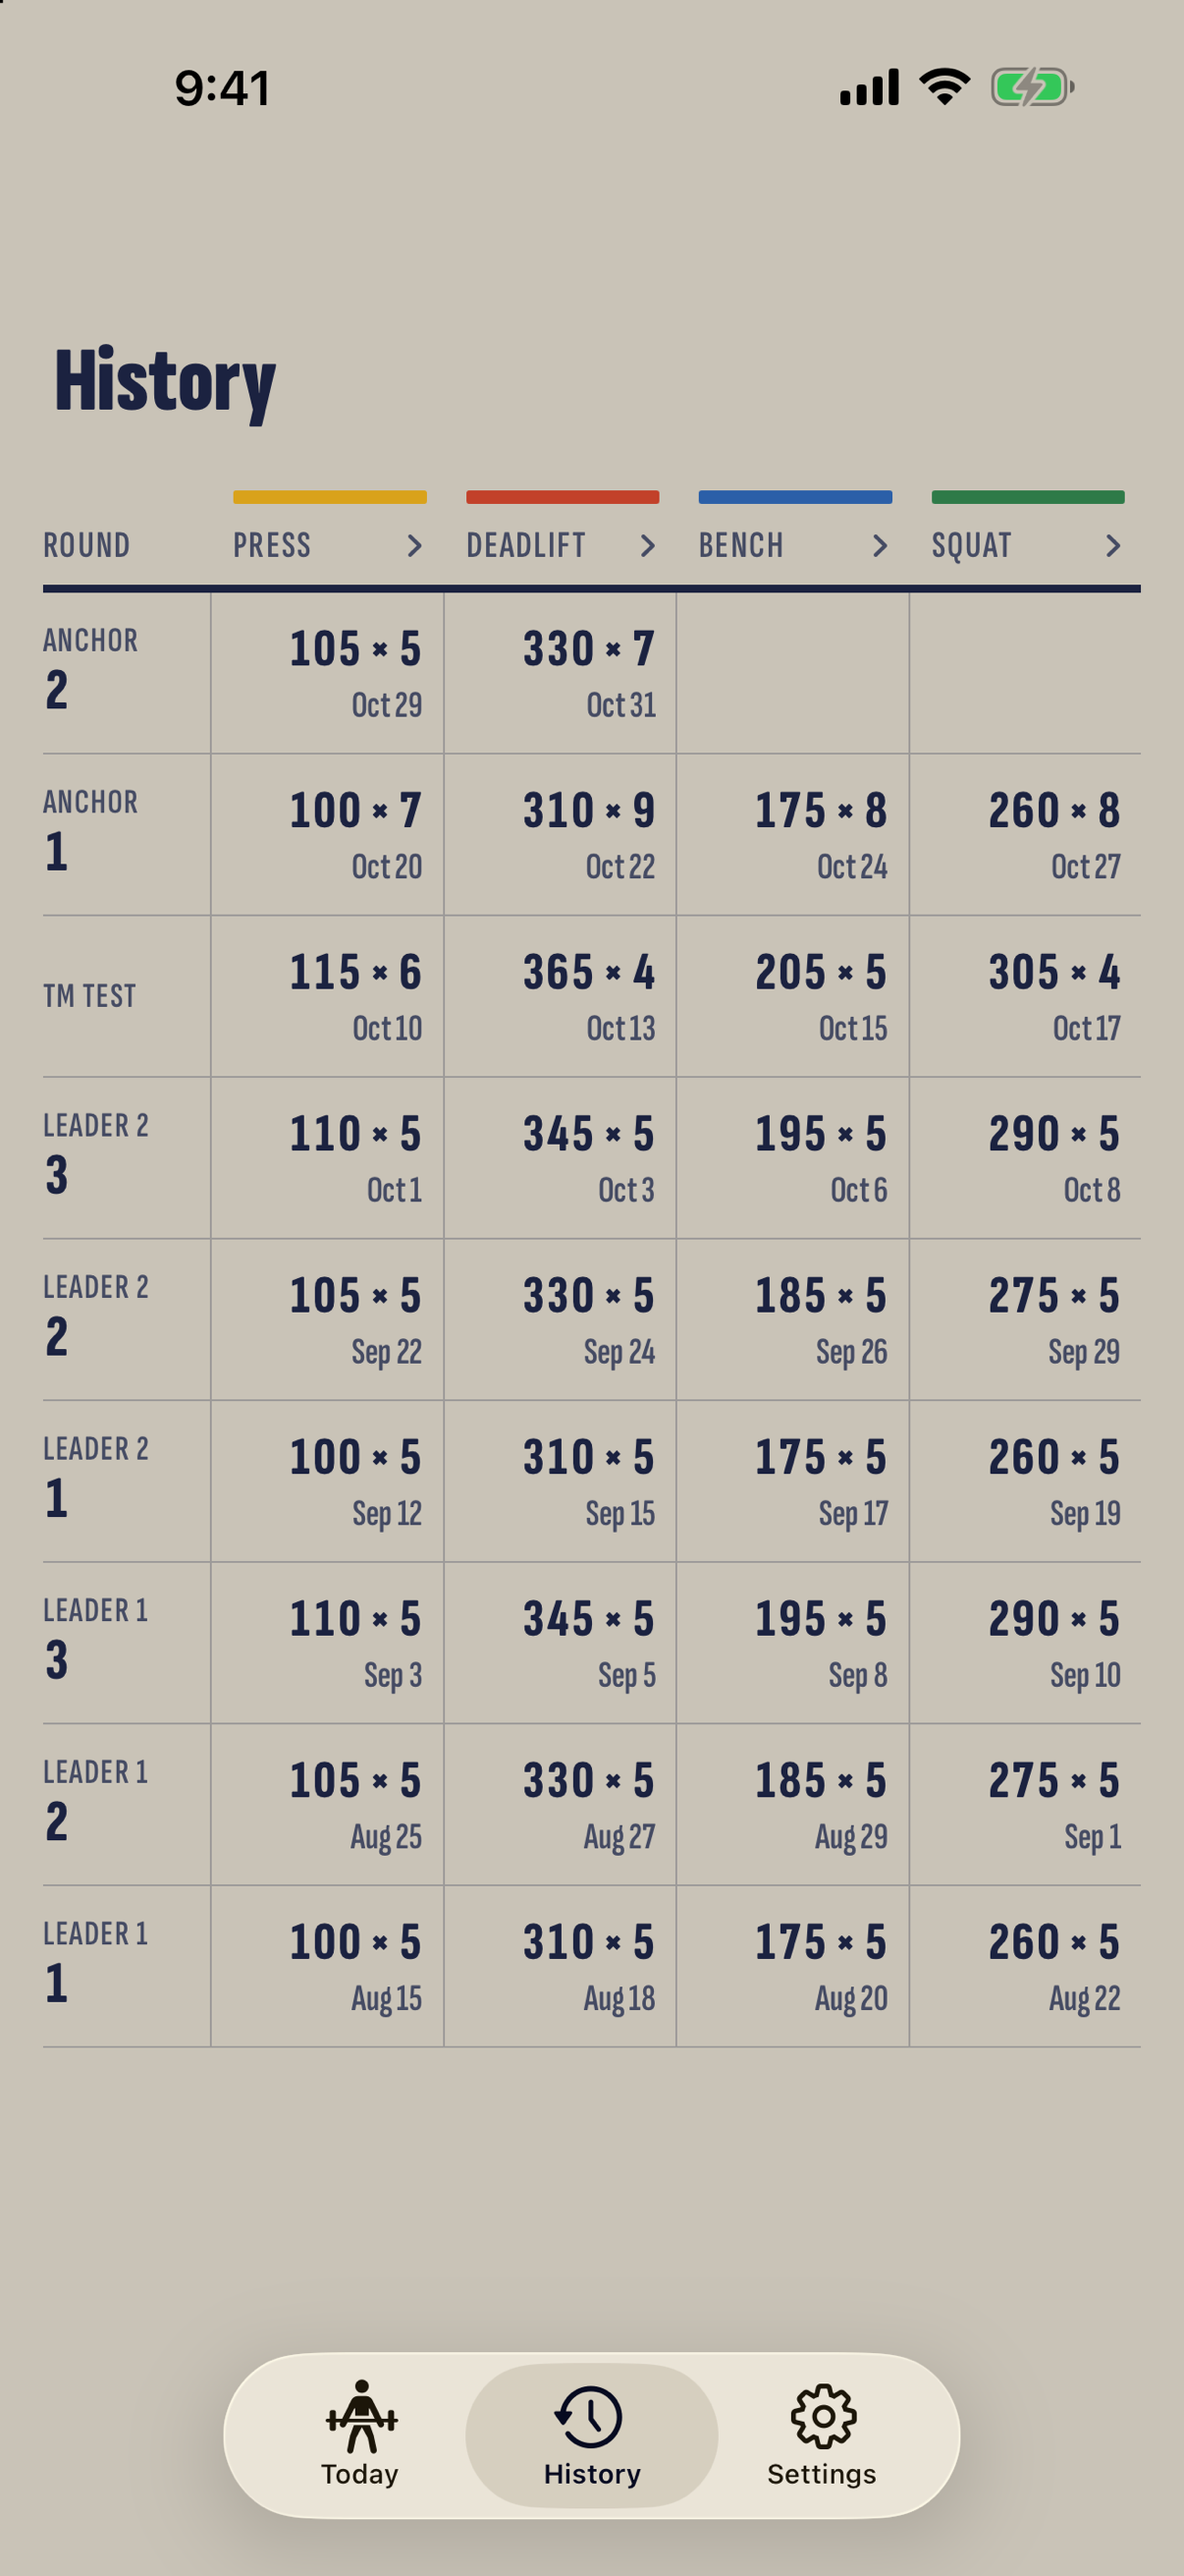
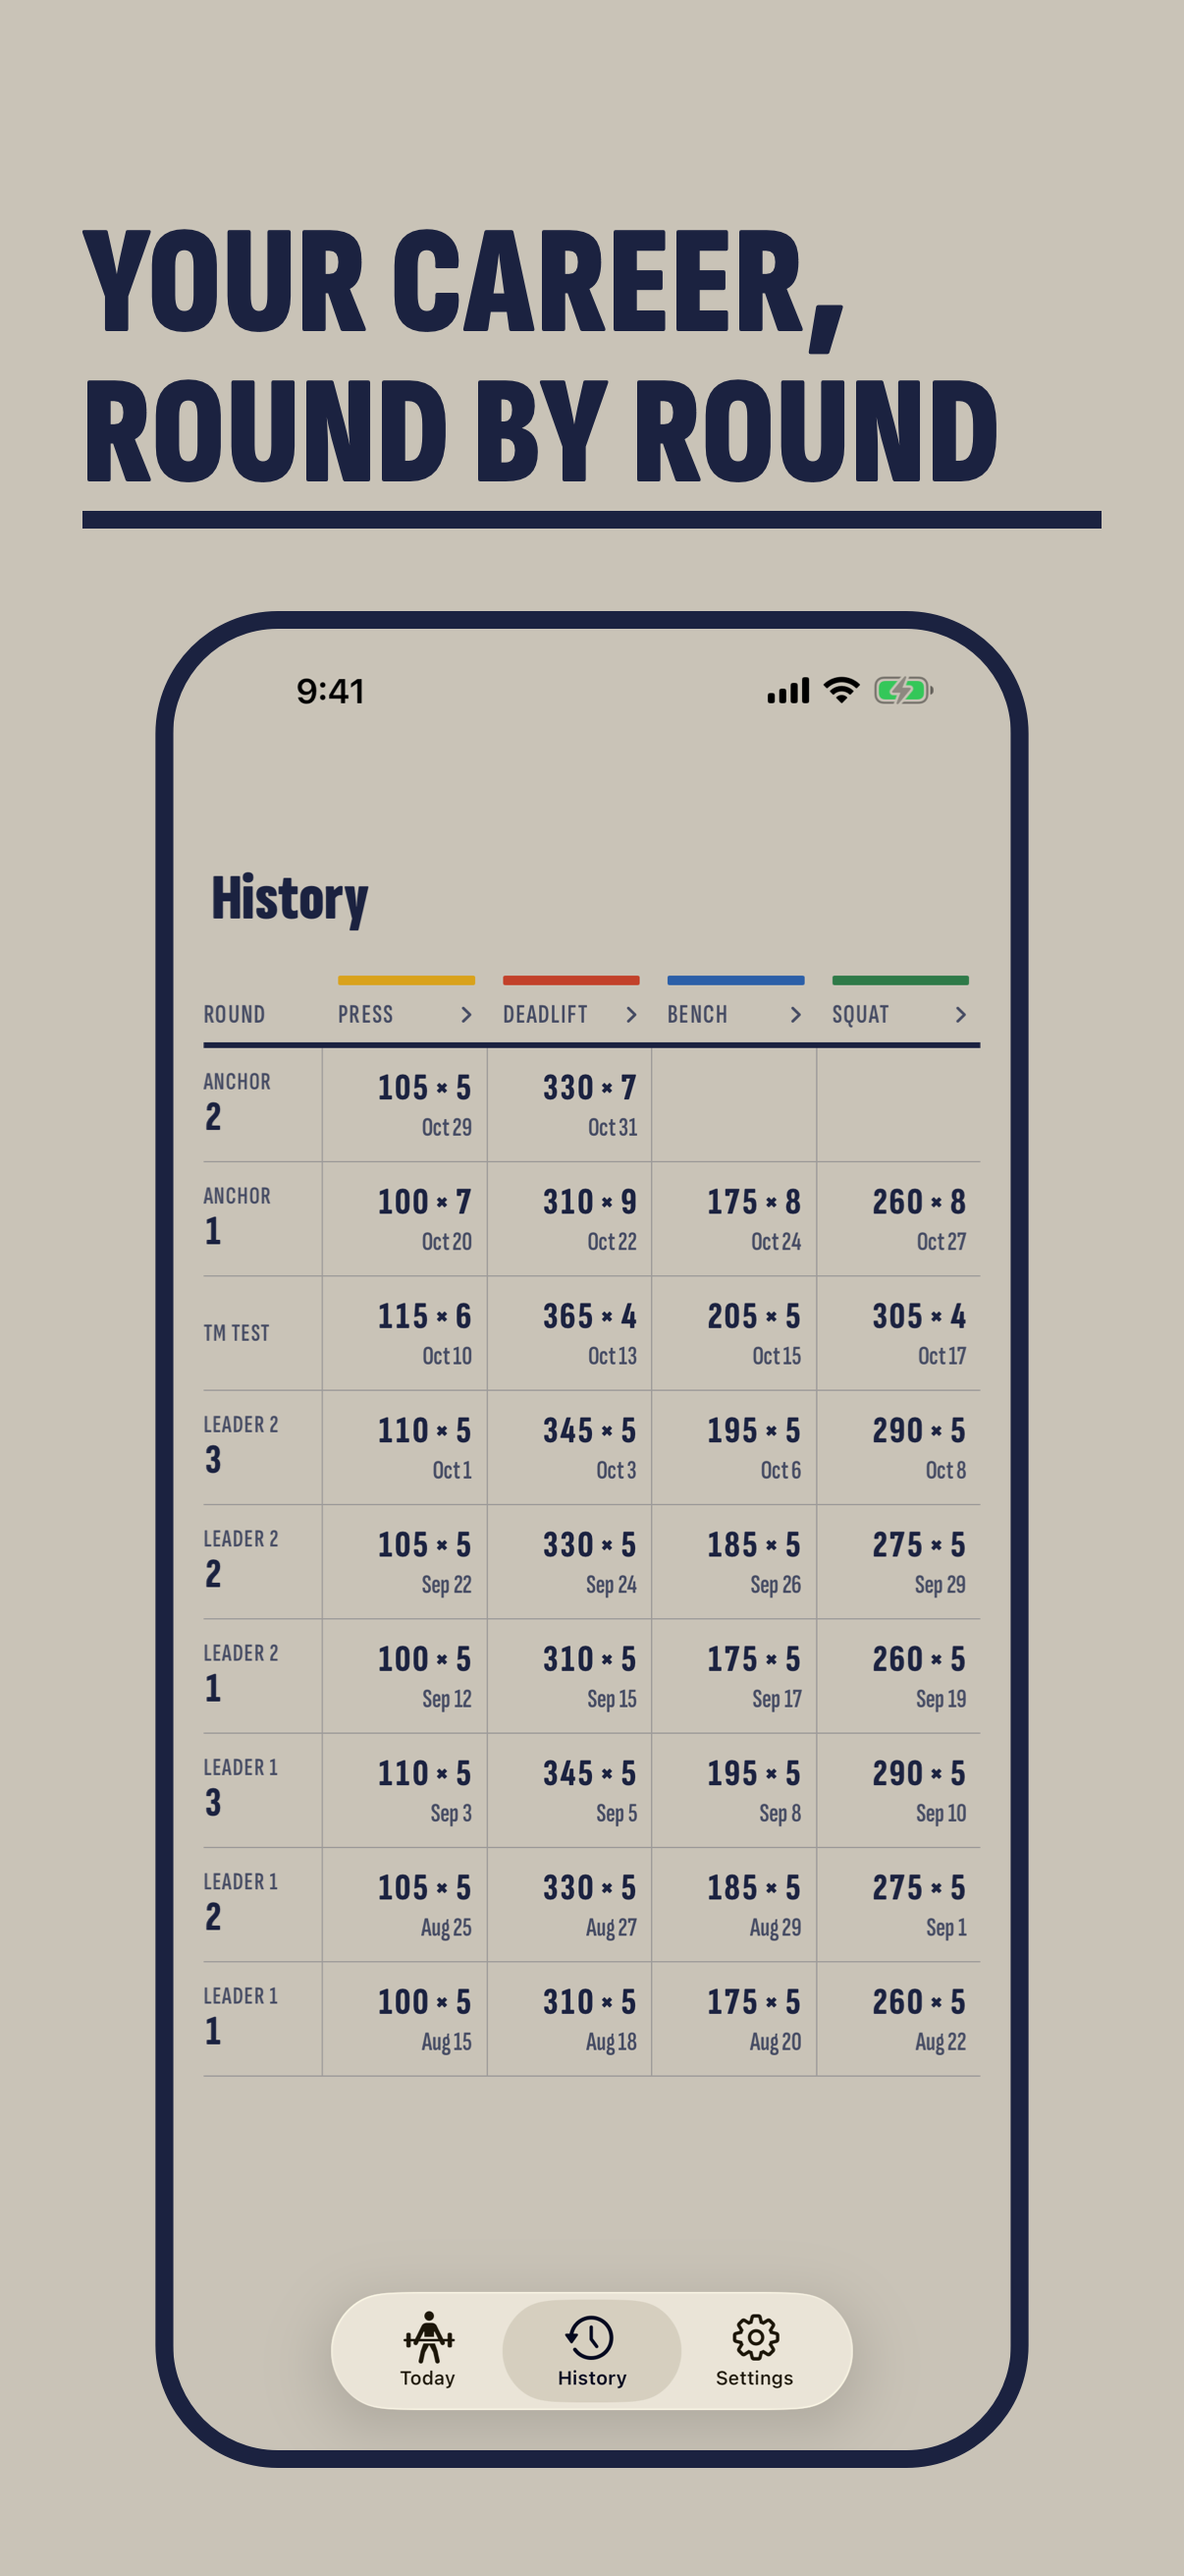
Caption the App Store screenshots
The plain captures become a captioned set at 1206x2622, in the order a
lifter meets Kedge: "Every set, worked out" over the session, "Know
what's next" over Today, "Your career, round by round" over History,
"Watch your max climb" over deadlift's chart, and "Light or dark, at
the bar" over the session in dark. Each caption is set like the app's
section headings, at 6x, over its heavy rule, with the line breaks set
by hand. Below it, the 1320x2868 capture sits in a flat phone edge in
the ink, since Kedge's chipboard screens would otherwise blend into the
chipboard page. The dark one swaps to the night navy ground with a
chipboard edge. No device bezel: Career Line is flat. Each PNG records
how it was made, and listing.md lists the set.

diff --git a/docs/app-store/listing.md b/docs/app-store/listing.md
@@ -79,10 +79,24 @@ paths: the app links the privacy policy itself (`mobile/src/lib/brand.ts`).
 
 ## Screenshots
 
-"iPhone with Dynamic Island (medium display)", the 6.1"/6.3" slot, at
-1206×2622, from `screenshots/` in this folder, in order. App Store Connect
-turned down 6.9" (1320×2868) images there, so the captures from the iPhone
-17 Pro Max simulator are scaled to fit (the two shapes differ by 0.07%).
+Upload these into "iPhone with Dynamic Island (medium display)", the
+6.1"/6.3" slot, at 1206×2622, from `screenshots/` in this folder, in order:
+
+| File | Caption | Screen |
+|---|---|---|
+| `1-session.png` | Every set, worked out | bench's session at its first main set, rest timer running |
+| `2-today.png` | Know what's next | Today, with bench's anchor session next |
+| `3-history.png` | Your career, round by round | History's career table |
+| `4-deadlift.png` | Watch your max climb | deadlift's chart of PR sets and past estimates |
+| `5-session-dark.png` | Light or dark, at the bar | the session in dark |
+
+Each caption is set like the app's section headings, in black condensed
+caps over a heavy rule. Below it, the screen sits in a flat phone edge in
+the ink, on the chipboard ground (night navy for the dark one), so the
+chipboard screens don't blend into the page. The screens are 1320×2868
+captures from the preview build on the iPhone 17 Pro Max simulator, signed
+in to the public demo. Each PNG records how it was made.
+
 Kedge runs on iPhone only, so there's no iPad set.
 
 ## Also
